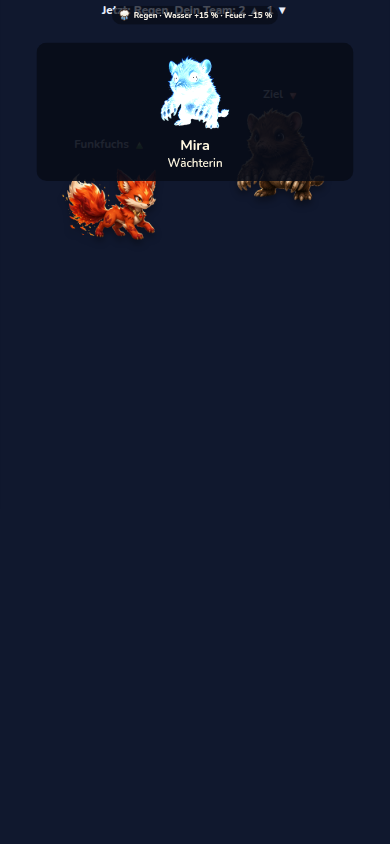
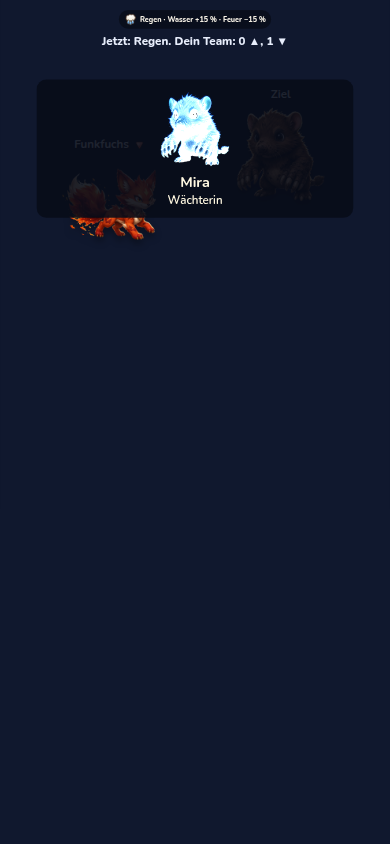
Wetterpfeile folgen der A5-Tabelle.
Feuer im Regen zeigt den roten Pfeil, unbetroffene Typen keinen. Die Teamzeile zählt nur die echten Mitglieder, Chip und Vorschau stehen untereinander.

Changed region(s): [[0.2462, 0.0, 0.7385, 0.2464], [0.1538, 0.2156, 0.4, 0.2773], [0.6154, 0.2156, 0.8308, 0.2464]]

diff --git a/src/adventure/app.ts b/src/adventure/app.ts
@@ -21,7 +21,7 @@ import {
 import { t, type Lang } from './i18n'
 import { shotAt, shouldRecover } from './present'
 import { species, typeColor } from '../data'
-import { weatherArrow, weatherAt } from './weather'
+import { teamWeatherMarks, weatherArrow, weatherAt } from './weather'
 import { sfx } from '../ui'
 import { actorTransform, hitShake, koPose, lungeOffset, numberStyle, parallaxShift } from '../battle/stage'
 import { cameraShake, hitGrade, hitstopMs, numberHoldMs } from '../battle/hitReadout'
@@ -262,20 +262,31 @@ function showFxDemo(kind: 'fire' | 'hit' | 'ko', requested: string | null = null
 
 const REGION_TINT = [0x7dcea0, 0x7dcea0, 0x9ad7ff, 0xff8a3d, 0x7e57c2, 0xf0c14a]
 
+function arrowTag(type: TypeId, weather: 'regen'): string {
+  const arrow = weatherArrow(weather, type)
+  if (!arrow) return ''
+  return `<img class="wx-arrow" src="${art(arrow === 'up' ? 'battle/stat_up.png' : 'battle/stat_down.png')}" alt=""/>`
+}
+
 function showK3Demo(part: string | null): void {
   const kind = part === 'ko' || part === 'sieg' || part === 'intro' ? part : 'wetter'
+  const allyType = species('m01').type
+  const foeType = species('m66').type
+  const marks = teamWeatherMarks([allyType], 'regen')
   paint(`<div id="stage" class="fx-demo"><div class="anchor anchor-mid"><div class="battle" id="battle" data-fx="live" style="height:980px">
     <div class="battle-world" id="battle-world">
       <div id="battle-fx"></div>
-      <div class="wx-chip" id="wx-chip"><img src="${art('battle/weather_icon_regen.png')}" alt=""/> Regen · Wasser +15 % · Feuer −15 %</div>
-      <div class="combatant foe" id="foe-actor" style="left:72%;top:58%"><b>Ziel <img class="wx-arrow" src="${art('battle/stat_down.png')}" alt=""/></b><img class="sprite" src="${monsterArt('m66', true)}" alt=""/></div>
-      <div class="combatant ally" id="ally-actor" style="left:28%;top:72%"><b>Funkfuchs <img class="wx-arrow" src="${art('battle/stat_up.png')}" alt=""/></b><img class="sprite" src="${monsterArt('m01', true)}" alt=""/></div>
+      <div class="wx-stack">
+        <div class="wx-chip" id="wx-chip"><img src="${art('battle/weather_icon_regen.png')}" alt=""/> Regen · Wasser +15 % · Feuer −15 %</div>
+        <p class="wx-preview">Jetzt: Regen. Dein Team: ${marks.up} ▲, ${marks.down} ▼</p>
+      </div>
+      <div class="combatant foe" id="foe-actor" style="left:72%;top:58%"><b>Ziel ${arrowTag(foeType, 'regen')}</b><img class="sprite" src="${monsterArt('m66', true)}" alt=""/></div>
+      <div class="combatant ally" id="ally-actor" style="left:28%;top:72%"><b>Funkfuchs ${arrowTag(allyType, 'regen')}</b><img class="sprite" src="${monsterArt('m01', true)}" alt=""/></div>
       <div class="name-banner" id="name-banner" hidden>Funkfuchs</div>
       <div class="boss-intro" id="boss-intro" hidden></div>
       <button type="button" class="victory" id="victory" hidden></button>
       <img class="crest-fly" id="crest-fly" alt="" hidden/>
     </div>
-    <p class="wx-preview">Jetzt: Regen. Dein Team: 2 ▲, 1 ▼</p>
   </div></div></div>`)
   const host = document.getElementById('battle-fx')
   if (host) mountBattleFx(host)

diff --git a/src/adventure/adventure.css b/src/adventure/adventure.css
@@ -335,16 +335,20 @@ textarea { width: 100%; box-sizing: border-box; background: #121a30; color: inhe
 .parallax.mid { background: radial-gradient(60% 30% at 50% 40%, rgba(255,255,255,0.14), transparent 70%); }
 .parallax.near { background: linear-gradient(0deg, rgba(0,0,0,0.28), transparent 28%); }
 #battle-fx { position: absolute; inset: 0; pointer-events: none; z-index: 4; }
+.wx-stack {
+  position: absolute; z-index: 7; top: 28px; left: 50%; transform: translateX(-50%);
+  display: flex; flex-direction: column; align-items: center; gap: 12px;
+  width: min(94%, 960px); pointer-events: none;
+}
 .wx-chip {
-  position: absolute; z-index: 7; top: 36px; left: 50%; transform: translateX(-50%);
-  display: flex; align-items: center; gap: 8px; max-width: 94%;
+  position: static; transform: none;
+  display: flex; align-items: center; gap: 8px; max-width: 100%;
   padding: 8px 14px; border-radius: 999px; background: rgba(8, 12, 24, 0.82);
   color: #f4efe4; font-weight: 800; font-size: 20px; white-space: nowrap;
 }
-.fx-demo .wx-preview { position: absolute; top: 92px; left: 0; right: 0; z-index: 7; margin: 0; }
 .wx-chip img { width: 36px; height: 36px; object-fit: contain; }
 .wx-arrow { width: 28px; height: 28px; margin-left: 6px; vertical-align: middle; }
-.wx-preview { margin: 8px 24px 0; text-align: center; font-weight: 800; }
+.wx-preview { margin: 0; text-align: center; font-weight: 800; }
 .name-banner, .boss-intro, .victory {
   position: absolute; z-index: 8; left: 50%; transform: translateX(-50%);
 }
@@ -353,7 +357,7 @@ textarea { width: 100%; box-sizing: border-box; background: #121a30; color: inhe
   color: #fff8e1; font-weight: 800; font-size: 32px;
 }
 .boss-intro {
-  top: 12%; width: 78%; text-align: center; padding: 28px 18px; border-radius: 28px;
+  top: 220px; width: 78%; text-align: center; padding: 28px 18px; border-radius: 28px;
   background: rgba(8, 12, 24, 0.9); color: #fff8e1;
 }
 .boss-intro img { width: 220px; height: 220px; object-fit: contain; filter: invert(1) brightness(1.4); }

diff --git a/src/adventure/weather.test.ts b/src/adventure/weather.test.ts
@@ -1,7 +1,7 @@
 import { describe, expect, it } from 'vitest'
 import type { TypeId } from '../types'
 import { rawDamage } from './battle'
-import { meanWeatherFactor, teamWeatherMarks, weatherFactor, WEATHERS, WEATHER_SHIFTS } from './weather'
+import { meanWeatherFactor, teamWeatherMarks, weatherArrow, weatherFactor, WEATHERS, WEATHER_SHIFTS } from './weather'
 
 const TYPES: TypeId[] = [
   'fire', 'water', 'plant', 'earth', 'wind', 'ice', 'lightning', 'poison', 'metal', 'stone',
@@ -13,6 +13,9 @@ describe('weather damage', () => {
     expect(weatherFactor(null, 'fire')).toBe(1)
     expect(weatherFactor('regen', 'water')).toBe(1.15)
     expect(weatherFactor('regen', 'fire')).toBe(0.85)
+    expect(weatherArrow('regen', 'fire')).toBe('down')
+    expect(weatherArrow('regen', 'water')).toBe('up')
+    expect(weatherArrow('regen', 'beast')).toBeNull()
     expect(weatherFactor('klar', 'light')).toBe(1.1)
     expect(weatherFactor('klar', 'ice')).toBe(0.9)
     expect(weatherFactor('gewitter', 'lightning')).toBe(1.15)
@@ -39,6 +42,7 @@ describe('weather damage', () => {
     const wet = rawDamage(40, 20, 1, 1.5 * weatherFactor('regen', 'fire'), false, 1)
     expect(wet).toBeLessThan(typed)
     expect(teamWeatherMarks(['water', 'water', 'fire'], 'regen')).toEqual({ up: 2, down: 1 })
+    expect(teamWeatherMarks(['fire'], 'regen')).toEqual({ up: 0, down: 1 })
   })
 
   it('keeps every type within 3 percent of neutral across the six weathers', () => {

diff --git a/src/adventure/view.ts b/src/adventure/view.ts
@@ -273,7 +273,7 @@ function battle(save: SaveV2, now: number): string {
         ${mon ? `<img class="sprite ${mon.shiny ? 'is-shiny' : ''}" id="ally-sprite" src="${monsterArt(mon.species, true)}" alt=""/>` : ''}
         <span class="ground-shadow"></span>
       </div>
-      <div class="wx-chip" id="wx-chip">${weatherChip(save, now)}</div>
+      <div class="wx-stack"><div class="wx-chip" id="wx-chip">${weatherChip(save, now)}</div></div>
       <div id="floats"></div>
       <div class="move-banner" id="move-banner" hidden></div>
       <div class="name-banner" id="name-banner" hidden></div>
